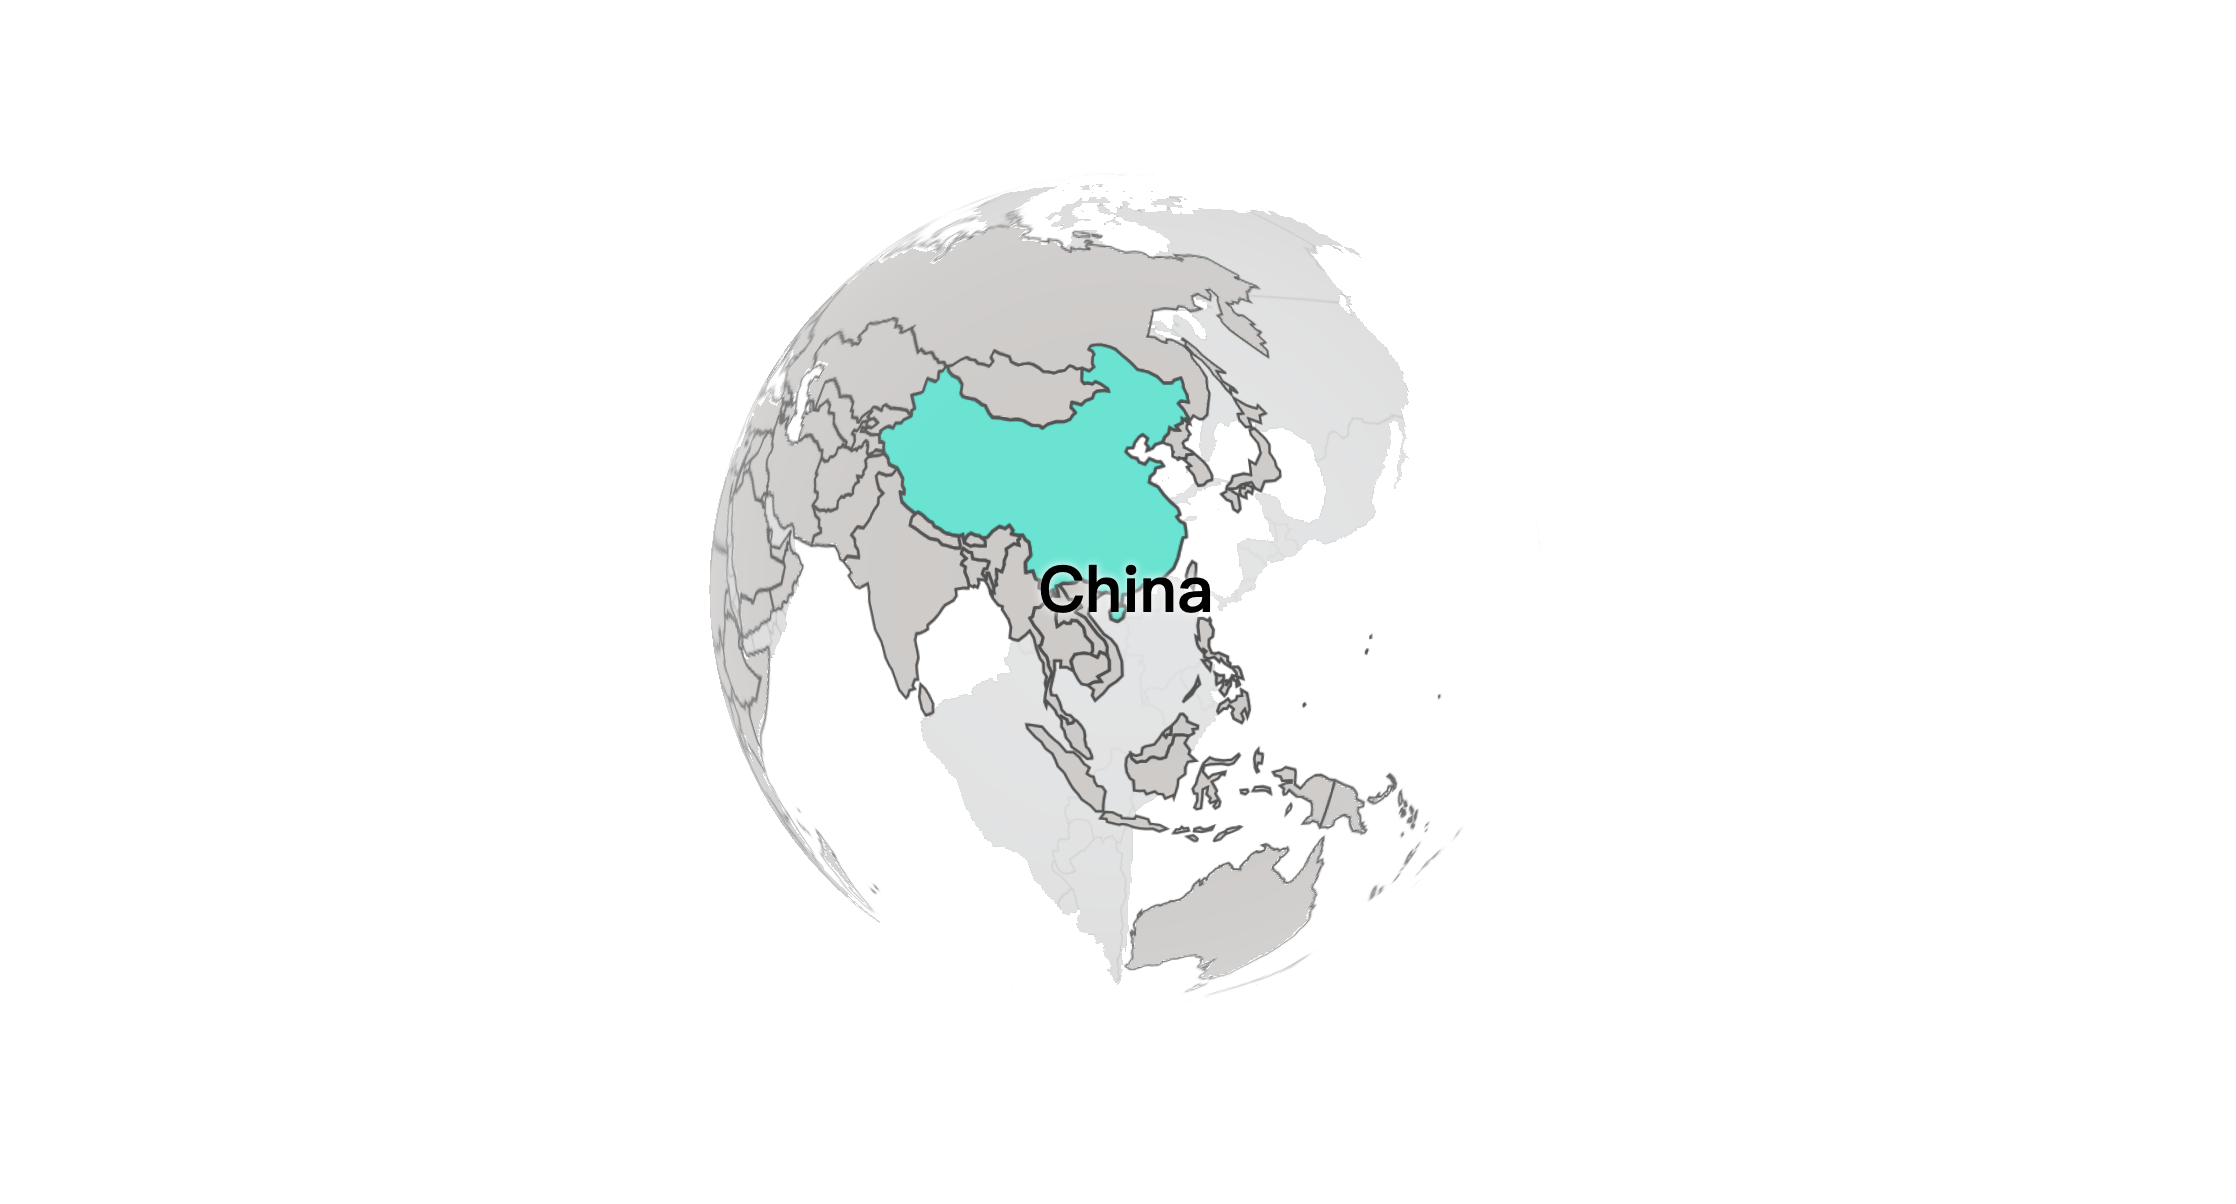
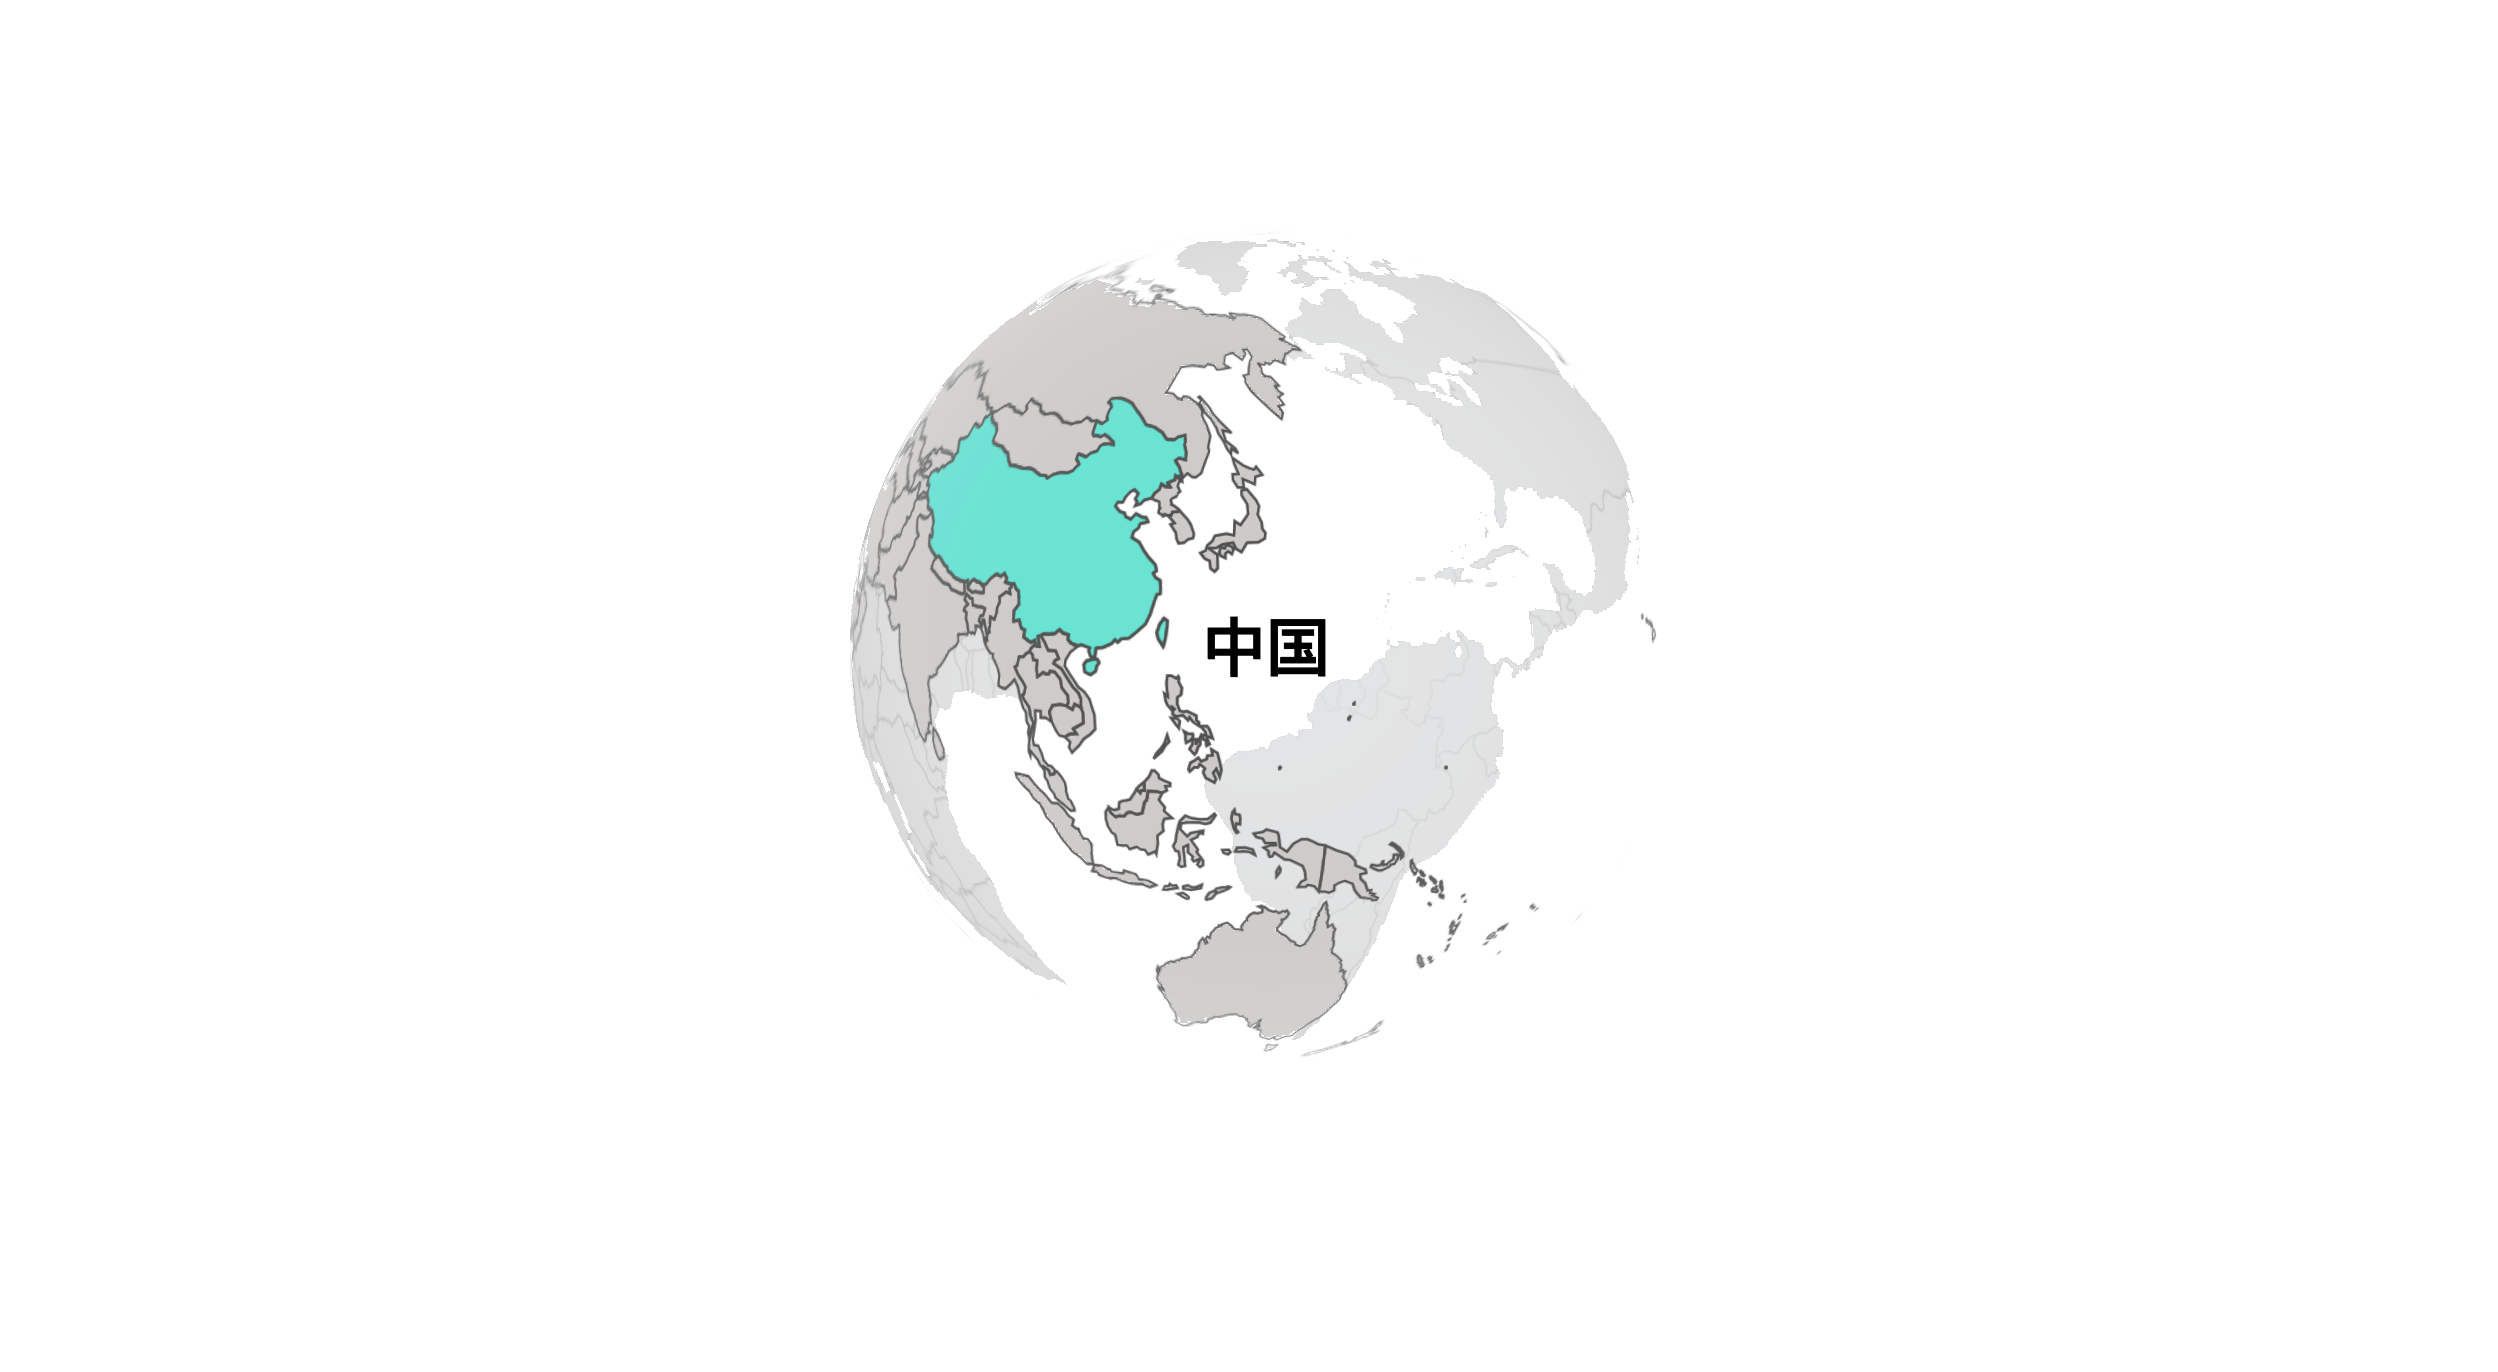
feat: 动态地球仪

Changed region(s): [[0.3086, 0.1537, 0.6789, 0.8297]]

diff --git a/public/code-fun/interactive-svg-threejs-globe.html b/public/code-fun/interactive-svg-threejs-globe.html
@@ -197,8 +197,8 @@
         data-name="Switzerland"
       />
       <path
-        d="M 1602.2 381.9 1597.9 385 1593 383 1592 377.5 1594.2 374.6 1600 372.8 1603.3 372.9 1604.9 375.4 1602.9 378.2 1602.2 381.9 Z M 1625.6 185.5 1634.6 190 1640.6 195.8 1648.2 195.8 1650.8 193.4 1657.7 191.5 1659 197.2 1658.7 199.5 1661.5 206.3 1662.1 212.5 1655.2 211.4 1652.3 213.6 1657 219 1660.9 226.5 1658.4 226.6 1660.3 229.9 1654.8 226.1 1654.8 229.7 1648.4 232.4 1651.2 235.8 1646.6 235.5 1643 233.5 1641.9 238.1 1638 241.5 1635.9 245.6 1629.6 247.4 1627.2 250.4 1622.4 252.2 1623.7 249.2 1621.4 246.7 1623.4 242.4 1618.9 239.1 1615.5 241.3 1611.9 245.8 1610.6 249.9 1605.6 250.2 1604.3 253.2 1609.1 257.5 1613.9 258.6 1615.3 261.4 1620.4 263.3 1624.2 258.7 1630.1 261.2 1633.6 261.4 1635.9 264.7 1629.2 266.5 1628.2 270 1624.4 273.2 1623.5 277.7 1630.6 281.2 1635.2 287.5 1640.7 293.4 1646.2 298.3 1647.8 303.1 1645 304.9 1647.4 308.3 1651.3 310.3 1652.1 315.5 1652.2 320.6 1649.4 321.2 1647.3 328.1 1645 336.6 1641.6 344.2 1635.2 350.1 1628.6 355.6 1622.5 356.3 1619.6 359.1 1617.3 357.1 1614.8 360.2 1607.6 363.5 1601.8 364.4 1601.1 371.2 1598 371.6 1595.8 366.9 1596.7 364.5 1588.9 362.4 1586.5 363.5 1580.6 361.8 1577.5 359.2 1577.8 355.5 1572.5 354.3 1569.4 351.9 1565.3 355.3 1560 356.1 1555.6 356 1552.9 357.6 1550.2 358.5 1552.2 365.9 1549.2 365.7 1548.4 364.2 1547.9 361.5 1544.1 363.4 1541.5 362.2 1537 359.8 1537.8 354.5 1534.1 353.2 1531.7 347.3 1526.1 348.4 1525.4 340.8 1529.6 335.4 1528.7 330.1 1527.4 325.2 1524.7 323.7 1522 319.9 1518.9 320.4 1512.8 319.4 1514 316.7 1510.4 312.7 1507.2 315.4 1502.3 313.9 1496.9 317.9 1493 322.7 1488.8 323.5 1486 321.8 1483.1 321.6 1478.8 320.2 1476.2 321.8 1473.6 326.6 1472.1 321.5 1469 322.9 1462.5 322.2 1456 320.8 1451 317.9 1446.5 316.7 1444 313.6 1440.7 312.7 1434.3 308.5 1429.5 306.5 1427.6 308 1419 303.5 1412.8 299.5 1409.6 292.4 1413.7 293.3 1413.1 290 1410.1 286.7 1409.3 281.5 1401.6 273.9 1392.1 271.4 1389.2 266.4 1384.5 263.4 1383 261.6 1381.2 258 1380.7 255.5 1377 254 1375.5 254.7 1372.4 248.7 1373.5 247.3 1372.3 245.8 1376.4 242.8 1379.6 241.5 1385.4 242.4 1386 238.3 1392.4 237.6 1393.4 235 1400.3 231.6 1400.5 230.2 1398.8 226.5 1401.7 224.9 1392.9 213.9 1402 211.4 1404 210 1403 198.7 1413.8 200.8 1415.4 197.9 1412.9 191.7 1416.7 191.1 1418.6 186.9 1420.3 186.4 1423.6 190.8 1429.3 194.1 1437.5 196.4 1443.3 201.5 1444.7 208.8 1447.7 211.6 1454.2 212.7 1461.4 213.5 1469.4 217.5 1472.8 218.2 1477.8 224 1482.5 227.8 1488.1 227.6 1499.4 229.1 1505.8 228.2 1511.4 229.1 1520.8 233 1527 233 1530.3 234.9 1534.7 231.5 1541.9 229.3 1549.5 229.1 1554.4 226.9 1556.4 223.5 1558.8 221.3 1556.9 219.2 1554 216.8 1554.5 212.7 1557.7 213.3 1563.6 214.6 1566.8 211.2 1573.2 208.8 1574.5 204.6 1577 202.8 1583.8 202 1588.2 202.7 1587.4 200.5 1580.2 196.1 1575 194.1 1572.5 196.4 1567 195.4 1564.7 196.2 1561.9 193.7 1561.6 187.4 1561 182.7 1568.4 185.1 1572.8 181.2 1570.9 178.4 1570.7 171.9 1572 169.9 1569.5 166.5 1565.8 165.1 1567.5 162 1572.6 160.9 1578.8 160.7 1587.4 162.6 1593.4 164.8 1601.1 171 1604.9 173.7 1609.4 177.5 1615.6 183.5 1625.6 185.5 Z"
-        data-name="China"
+        d="M 1602.2 381.9 1597.9 385 1593 383 1592 377.5 1594.2 374.6 1600 372.8 1603.3 372.9 1604.9 375.4 1602.9 378.2 1602.2 381.9 Z M 1625.6 185.5 1634.6 190 1640.6 195.8 1648.2 195.8 1650.8 193.4 1657.7 191.5 1659 197.2 1658.7 199.5 1661.5 206.3 1662.1 212.5 1655.2 211.4 1652.3 213.6 1657 219 1660.9 226.5 1658.4 226.6 1660.3 229.9 1654.8 226.1 1654.8 229.7 1648.4 232.4 1651.2 235.8 1646.6 235.5 1643 233.5 1641.9 238.1 1638 241.5 1635.9 245.6 1629.6 247.4 1627.2 250.4 1622.4 252.2 1623.7 249.2 1621.4 246.7 1623.4 242.4 1618.9 239.1 1615.5 241.3 1611.9 245.8 1610.6 249.9 1605.6 250.2 1604.3 253.2 1609.1 257.5 1613.9 258.6 1615.3 261.4 1620.4 263.3 1624.2 258.7 1630.1 261.2 1633.6 261.4 1635.9 264.7 1629.2 266.5 1628.2 270 1624.4 273.2 1623.5 277.7 1630.6 281.2 1635.2 287.5 1640.7 293.4 1646.2 298.3 1647.8 303.1 1645 304.9 1647.4 308.3 1651.3 310.3 1652.1 315.5 1652.2 320.6 1649.4 321.2 1647.3 328.1 1645 336.6 1641.6 344.2 1635.2 350.1 1628.6 355.6 1622.5 356.3 1619.6 359.1 1617.3 357.1 1614.8 360.2 1607.6 363.5 1601.8 364.4 1601.1 371.2 1598 371.6 1595.8 366.9 1596.7 364.5 1588.9 362.4 1586.5 363.5 1580.6 361.8 1577.5 359.2 1577.8 355.5 1572.5 354.3 1569.4 351.9 1565.3 355.3 1560 356.1 1555.6 356 1552.9 357.6 1550.2 358.5 1552.2 365.9 1549.2 365.7 1548.4 364.2 1547.9 361.5 1544.1 363.4 1541.5 362.2 1537 359.8 1537.8 354.5 1534.1 353.2 1531.7 347.3 1526.1 348.4 1525.4 340.8 1529.6 335.4 1528.7 330.1 1527.4 325.2 1524.7 323.7 1522 319.9 1518.9 320.4 1512.8 319.4 1514 316.7 1510.4 312.7 1507.2 315.4 1502.3 313.9 1496.9 317.9 1493 322.7 1488.8 323.5 1486 321.8 1483.1 321.6 1478.8 320.2 1476.2 321.8 1473.6 326.6 1472.1 321.5 1469 322.9 1462.5 322.2 1456 320.8 1451 317.9 1446.5 316.7 1444 313.6 1440.7 312.7 1434.3 308.5 1429.5 306.5 1427.6 308 1419 303.5 1412.8 299.5 1409.6 292.4 1413.7 293.3 1413.1 290 1410.1 286.7 1409.3 281.5 1401.6 273.9 1392.1 271.4 1389.2 266.4 1384.5 263.4 1383 261.6 1381.2 258 1380.7 255.5 1377 254 1375.5 254.7 1372.4 248.7 1373.5 247.3 1372.3 245.8 1376.4 242.8 1379.6 241.5 1385.4 242.4 1386 238.3 1392.4 237.6 1393.4 235 1400.3 231.6 1400.5 230.2 1398.8 226.5 1401.7 224.9 1392.9 213.9 1402 211.4 1404 210 1403 198.7 1413.8 200.8 1415.4 197.9 1412.9 191.7 1416.7 191.1 1418.6 186.9 1420.3 186.4 1423.6 190.8 1429.3 194.1 1437.5 196.4 1443.3 201.5 1444.7 208.8 1447.7 211.6 1454.2 212.7 1461.4 213.5 1469.4 217.5 1472.8 218.2 1477.8 224 1482.5 227.8 1488.1 227.6 1499.4 229.1 1505.8 228.2 1511.4 229.1 1520.8 233 1527 233 1530.3 234.9 1534.7 231.5 1541.9 229.3 1549.5 229.1 1554.4 226.9 1556.4 223.5 1558.8 221.3 1556.9 219.2 1554 216.8 1554.5 212.7 1557.7 213.3 1563.6 214.6 1566.8 211.2 1573.2 208.8 1574.5 204.6 1577 202.8 1583.8 202 1588.2 202.7 1587.4 200.5 1580.2 196.1 1575 194.1 1572.5 196.4 1567 195.4 1564.7 196.2 1561.9 193.7 1561.6 187.4 1561 182.7 1568.4 185.1 1572.8 181.2 1570.9 178.4 1570.7 171.9 1572 169.9 1569.5 166.5 1565.8 165.1 1567.5 162 1572.6 160.9 1578.8 160.7 1587.4 162.6 1593.4 164.8 1601.1 171 1604.9 173.7 1609.4 177.5 1615.6 183.5 1625.6 185.5 Z M1657.9 355.5l-1.4 5.3-4-5.5-1.5-4.7 1.9-6.3 3.3-4.9 3 1.9-0.1 3.9-1.2 10.3z"
+        data-name="中国"
       />
       <path
         d="M955.9 435.2l2.5 1.4 1 2.2 2.5 1.3 2-1.6 2.6-0.2 3.9 1.6 1.5 9.2-2.4 5.3-1.5 7.3 2.4 5.5-0.2 2.6-2.6 0-3.9-1.2-3.7 0-6.7 1.2-3.9 1.8-5.6 2.4-1.1-0.2 0.4-5.3 0.6-0.8-0.2-2.5-2.4-2.7-1.8-0.4-1.6-1.8 1.2-2.9-0.5-3.1 0.2-1.8 0.9 0 0.4-2.8-0.4-1.3 0.5-0.9 2.1-0.7-1.4-5.2-1.3-2.6 0.5-2.2 1.1-0.5 0.8-0.6 1.5 1 4.4 0 1-1.8 1 0.1 1.6-0.7 0.9 2.7 1.3-0.8 2.4-1z"
@@ -660,10 +660,7 @@
         d="M 1201.7 235.3 1207.2 235 1212.8 238.2 1214.1 240.4 1214.2 243.5 1218.4 245.1 1220.8 246.9 1217.5 248.8 1220.4 256.1 1219.7 258.1 1223.5 263.2 1221.1 264.3 1219 262.7 1212.7 261.8 1210.6 262.8 1204.7 263.8 1201.8 263.7 1196.1 266.1 1191.7 266.1 1188.7 264.9 1183.1 266.7 1181.2 265.5 1181.4 269 1180.2 270.4 1178.9 271.8 1176.6 268.9 1178.3 266.5 1175.1 267.1 1170.5 265.6 1167.3 269.3 1159.3 270 1154.6 266.6 1148.9 266.4 1147.9 269 1144.3 269.8 1138.9 266.4 1133.1 266.5 1129.3 260.1 1125.1 256.6 1127.1 251.6 1123.5 248.5 1128.6 242.4 1136.6 242.2 1138.2 237.3 1148.2 238.2 1153.8 234.1 1159.6 232.3 1168.1 232.1 1177.9 236.6 1185.8 239.1 1191.6 238.1 1196.2 238.7 1201.7 235.3 Z M 1121.9 239.9 1123.1 239.2 1124.2 235.2 1121.5 233.5 1126.5 231.5 1131.1 232.3 1132 234.8 1136.8 236.8 1136.1 238.4 1129.9 238.7 1127.9 240.7 1124 244.1 1122 241.2 1121.9 239.9 Z"
         data-name="Turkey"
       />
-      <path
-        d="M1657.9 355.5l-1.4 5.3-4-5.5-1.5-4.7 1.9-6.3 3.3-4.9 3 1.9-0.1 3.9-1.2 10.3z"
-        data-name="Taiwan"
-      />
+
       <path
         d="M1167 508.4l-0.2 3.9-1.1 4.5 1.6 2.5 2.5-1.5 3.3-0.4 0.7 0.8 3.3-1.6-2.3-2.2 1.9-2.9 2.8-2.9 20.5 13.1 0.3 3.7 8.1 6.4-2.8 8 0.3 3.6 3.5 2.3 0.2 1.7-1.7 3.9 0.3 1.9-0.4 3.1 1.8 4 2.2 6.4 2 1.4-4.6 3.7-6.2 2.5-3.4-0.1-2.1 1.9-3.9 0.2-1.5 0.8-6.7-1.8-2.2 0.2 0.1-0.1-1.8-2.4-0.3-6.8-2.9-3.4-0.4 1.2-1-1.7-5.5-1.2-3.2-1.9-3.6-1.1-2.2-1.1-0.3-0.2-2.7-6.6-0.4-3.9-4.5-4.4 1.4-2.4-1.1-2.6 0.2-2.7-1-0.9 0.3-2.8 0.6-0.1 2-2.3 2.3-3.4 1.4-1.3 0-2.1-1.2-1.5-0.3-2.5 1.6-0.8 0.3-3.8-2.2-3.6 2-0.8 6.2 0.1z"
         data-name="Tanzania"
